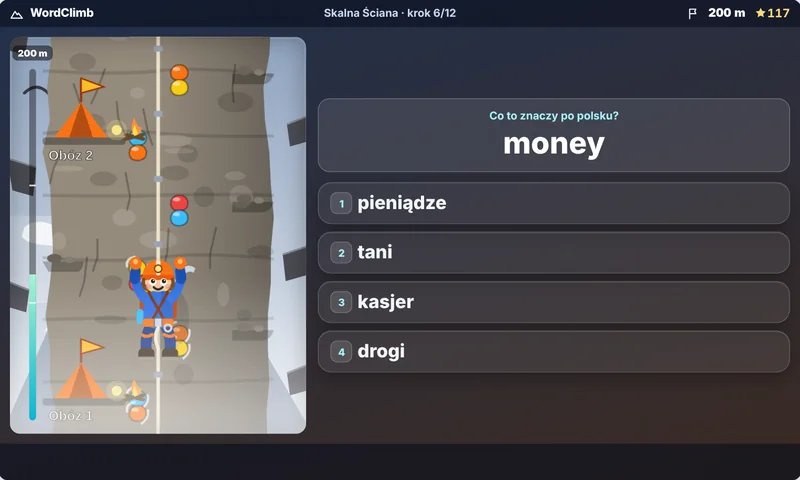
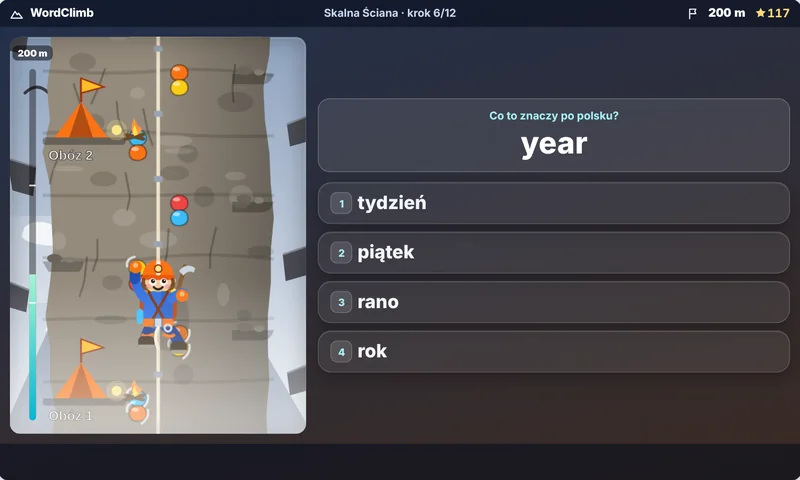
WordClimb: ręce i nogi wspinacza na uchwytach, 18 nowych słówek B1
Claude-Session: https://claude.ai/code/session_01MyUW9fQB8JttoV36Ji4mpt

diff --git a/index.html b/index.html
@@ -866,8 +866,8 @@ const CATS=[
 {n:'Zakupy',e:'🛒',l:'A2',nh:1,w:D('sklep=shop=I buy bread in a ___.,cena=price=The number on a label tells you the ___.,tani=cheap=A low price means it is ___.,drogi=expensive=A very high price means it is ___.,pieniądze=money=You pay with ___ in a shop.,koszyk=basket=You carry your shopping in a ___.,paragon=receipt=The shop gives you a ___ after you pay.,torba=bag=You put your shopping in a ___.,kasjer=cashier=The ___ scans your things at the till.,zniżka=discount=A ___ makes the price lower.,karta=card=You can pay by ___ instead of cash.,reszta=change=The shop gives you back the ___.,rozmiar=size=You ask for a bigger ___ when a shirt is too small.,kolejka=queue=People wait in a ___ at the till.')},
 {n:'Podróże',e:'✈',l:'A2',nh:1,w:D('bilet=ticket=You buy a ___ before you take the train.,lotnisko=airport=Planes take off from the ___.,pociąg=train=A ___ runs on rails between stations.,walizka=suitcase=You pack your clothes in a ___.,mapa=map=A ___ shows you where the roads are.,hotel=hotel=Tourists sleep in a ___ at night.,paszport=passport=You show your ___ at the border.,wakacje=holiday=Children do not go to school during the summer ___.,stacja=station=Trains stop at the ___.,autobus=bus=A ___ is a big vehicle for many people in the city.,samolot=plane=A ___ flies in the sky.,statek=ship=A ___ sails across the sea.,rezerwacja=reservation=I made a table ___ at the restaurant.,bagaż=luggage=All your suitcases are your ___.')},
 {n:'Czas i dni',e:'📅',l:'A2',nh:1,w:D('poniedziałek=Monday=The first day of the school week is ___.,wtorek=Tuesday=The day after Monday is ___.,środa=Wednesday=The day in the middle of the week is ___.,piątek=Friday=The last school day of the week is ___.,niedziela=Sunday=Many people rest on ___.,rano=morning=You wake up in the ___.,wieczór=evening=You eat supper in the ___.,wczoraj=yesterday=The day before today is ___.,jutro=tomorrow=The day after today is ___.,tydzień=week=Seven days make one ___.,miesiąc=month=Thirty days make about one ___.,rok=year=Twelve months make one ___.,godzina=hour=Sixty minutes make one ___.,dzisiaj=today=This day right now is ___.')},
-{n:'Czasowniki nieregularne',e:'📘',l:'B1',nh:1,w:D('poszedł=went=Yesterday I ___ to school by bus.,zobaczył=saw=Last night I ___ a big moon in the sky.,zjadł=ate=She ___ a sandwich at noon yesterday.,kupił=bought=He ___ a new phone with his own money last week.,wziął=took=They ___ a taxi to the airport last night.,napisał=wrote=I ___ an email to my teacher yesterday.,mówił=spoke=He ___ English very well when he was ten.,wiedział=knew=I ___ the answer to the question yesterday.,przyszedł=came=She ___ to the party an hour ago.,dał=gave=He ___ me a present on my birthday.,zrobił=made=Mum ___ a cake in the oven yesterday.,powiedział=said=He ___ hello and smiled yesterday.,wypił=drank=I ___ a glass of milk this morning.,spał=slept=The baby ___ all night yesterday.')},
-{n:'Fałszywi przyjaciele',e:'🎭',l:'B1',w:D('aktualny=current=The ___ price is ten zloty.=actual,ewentualnie=possibly=We can ___ go later.=eventually,sympatyczny=nice=She is a very ___ person.=sympathetic,pensja=salary=He gets a good ___.=pension,recepta=prescription=The doctor wrote a ___.=recipe,fabryka=factory=He works in a ___.=fabric,magazyn=warehouse=The goods are in the ___.=magazine,dres=tracksuit=I wear a ___ for sport.=dress,kolega=friend=He is my school ___.=colleague,list=letter=I got a ___ from my aunt.=list,sensowny=sensible=That is a ___ idea.=sensitive')}];
+{n:'Czasowniki nieregularne',e:'📘',l:'B1',nh:1,w:D('poszedł=went=Yesterday I ___ to school by bus.,zobaczył=saw=Last night I ___ a big moon in the sky.,zjadł=ate=She ___ a sandwich at noon yesterday.,kupił=bought=He ___ a new phone with his own money last week.,wziął=took=They ___ a taxi to the airport last night.,napisał=wrote=I ___ an email to my teacher yesterday.,mówił=spoke=He ___ English very well when he was ten.,wiedział=knew=I ___ the answer to the question yesterday.,przyszedł=came=She ___ to the party an hour ago.,dał=gave=He ___ me a present on my birthday.,zrobił=made=Mum ___ a cake in the oven yesterday.,powiedział=said=He ___ hello and smiled yesterday.,wypił=drank=I ___ a glass of milk this morning.,spał=slept=The baby ___ all night yesterday.,zapomniał=forgot=I ___ to do my homework yesterday.,znalazł=found=She ___ her lost cat in the park yesterday.,stracił=lost=He ___ his umbrella on the bus last week.,usłyszał=heard=We ___ a loud noise last night.,poczuł=felt=I ___ very tired after the long trip.,zaczął=began=The film ___ at eight o\'clock yesterday.,usiadł=sat=The cat ___ on my bed yesterday.,stanął=stood=We ___ in a long queue yesterday.,pływał=swam=We ___ in the lake last summer.,narysował=drew=She ___ a horse with a pencil yesterday.,zaśpiewał=sang=She ___ a beautiful song at the party.,wygrał=won=Our team ___ the match last Sunday.,złamał=broke=He ___ his leg when he fell off a bike.,przebiegł=ran=He ___ ten kilometres in the park yesterday.')},
+{n:'Fałszywi przyjaciele',e:'🎭',l:'B1',w:D('aktualny=current=The ___ price is ten zloty.=actual,ewentualnie=possibly=We can ___ go later.=eventually,sympatyczny=nice=She is a very ___ person.=sympathetic,pensja=salary=He gets a good ___.=pension,recepta=prescription=The doctor wrote a ___.=recipe,fabryka=factory=He works in a ___.=fabric,magazyn=warehouse=The goods are in the ___.=magazine,dres=tracksuit=I wear a ___ for sport.=dress,kolega=friend=He is my school ___.=colleague,list=letter=I got a ___ from my aunt.=list,sensowny=sensible=That is a ___ idea.=sensitive,tabletka=pill=I took a ___ for my headache.=tablet,kostium=suit=She wore a business ___ to work.=costume,gust=taste=She has good ___ in clothes.=gust,bluza=sweatshirt=When it is cold I wear a warm ___.=blouse')}];
 const SEN=Object.fromEntries(`dog=I walk my ___ every day.|cat=The ___ sleeps on the sofa.|bird=A ___ sings in the tree.|fish=The ___ swims in the water.|horse=She rides a ___.|cow=The ___ gives us milk.|mouse=The ___ is afraid of the cat.|pig=The ___ lives on a farm.|rabbit=The ___ eats a carrot.|frog=The green ___ jumps into the pond.|bread=I eat ___ for breakfast.|milk=I drink a glass of ___.|apple=She eats a red ___.|water=Please give me a glass of ___.|cheese=I like ___ on my sandwich.|egg=He has a boiled ___.|butter=Put ___ on the bread.|sugar=I put ___ in my tea.|soup=Mum cooks hot ___.|tea=Would you like a cup of ___?|house=We live in a big ___.|window=Please open the ___.|door=Close the ___ please.|table=The book is on the ___.|chair=Sit on the ___.|bed=I go to ___ at ten.|lamp=Turn on the ___.|kitchen=Mum is cooking in the ___.|roof=The cat sits on the ___.|wall=There is a picture on the ___.|red=The apple is ___.|blue=The sky is ___.|green=The grass is ___.|yellow=The sun is ___.|black=The night is ___.|white=Snow is ___.|big=An elephant is ___.|small=A mouse is ___.|fast=A car is ___.|slow=A turtle is ___.|head=I wear a hat on my ___.|hand=I write with my right ___.|leg=I hurt my ___ in football.|eye=I close one ___.|ear=I hear with my ___.|nose=I smell with my ___.|mouth=Open your ___ please.|heart=My ___ beats fast.|finger=I wear a ring on my ___.|hair=She has long ___.|run=I ___ in the park.|jump=The frog can ___.|eat=I ___ lunch at noon.|drink=I ___ water every day.|sleep=I ___ eight hours.|read=I ___ a book.|write=I ___ a letter.|speak=Can you ___ English?|listen=Please ___ to the teacher.|swim=I ___ in the sea.`.split('|').map(x=>x.split('=')));
 CATS.forEach((c,i)=>{c.l=c.l||'A1';c.w.forEach(w=>{if(!w[2]&&SEN[w[1]])w[2]=SEN[w[1]]})});
 let SKEY='wc2',SV={};try{SV=JSON.parse(localStorage.getItem(SKEY)||'{}')}catch(e){}
@@ -2777,8 +2777,8 @@ function clAwardHtml(){return CL.gain==null?'liczę…':CL.gain>0?'+'+CL.gain+' 
 function clMan(o){
 
   o=o||{};const st=o.st||'idle',lv=o.lvl||'A1',lead=o.arm?'l':'r',b1=lv==='B1',jk=b1?'#d9482f':'#2f6fe0',jk2=b1?'#9f2c1b':'#1d4fb3';
-  const arm=s=>{const x=s*5;return`<g transform="translate(${s*9} -7)"><g class="cm-arm ${s<0?'l':'r'}"><path d="M0 0Q${s*7} -8 ${x} -21" stroke="${jk}" stroke-width="6.6" stroke-linecap="round" fill="none"/><path d="M${s*6} -13Q${s*6.4} -15 ${x+s*.2} -18" stroke="${jk2}" stroke-width="6.8" stroke-linecap="round" fill="none"/><circle cx="${x}" cy="-23.5" r="4.2" fill="#f97316"/><circle cx="${x}" cy="-24.6" r="1.7" fill="#fdba74"/></g></g>`};
-  const leg=s=>`<g transform="translate(${s*5} 11)"><g class="cm-leg ${s<0?'l':'r'}"><path d="M0 0Q${s*4} 8 ${s*3} 16" stroke="#1e3a8a" stroke-width="7.4" stroke-linecap="round" fill="none"/><path d="M${s*-1} 6Q${s*3.4} 8 ${s*5.4} 6.4" stroke="#f97316" stroke-width="2.2" fill="none" stroke-linecap="round"/><rect x="${s*3-5.5}" y="15" width="11" height="8" rx="3.2" fill="#3b2a1a"/><rect x="${s*3-5.5}" y="20.6" width="11" height="2.4" rx="1.2" fill="#9a8f84"/></g></g>`;
+  const hold=s=>!o.wall||(s<0)===!!o.arm,arm=s=>{const x=s*5,up=hold(s),hy=up?-21:-2,ex=up?x:s*7;return`<g transform="translate(${s*9} -7)"><g class="cm-arm ${s<0?'l':'r'}"><path d="M0 0Q${up?s*7:s*10} ${up?-8:-6} ${ex} ${up?-21:-2}" stroke="${jk}" stroke-width="6.6" stroke-linecap="round" fill="none"/>${up?`<path d="M${s*6} -13Q${s*6.4} -15 ${x+s*.2} -18" stroke="${jk2}" stroke-width="6.8" stroke-linecap="round" fill="none"/>`:''}<circle cx="${ex}" cy="${up&&!o.wall?-23.5:hy}" r="4.2" fill="#f97316"/><circle cx="${ex}" cy="${(up&&!o.wall?-23.5:hy)-1.1}" r="1.7" fill="#fdba74"/></g></g>`};
+  const leg=s=>{const on=o.wall&&(s<0)!==!!o.arm,fx=on?s*9:o.wall?s*3:s*3,fy=on?11.5:o.wall?8:16;return`<g transform="translate(${s*5} 11)"><g class="cm-leg ${s<0?'l':'r'}"><path d="M0 0Q${s*4+(on?s*2:0)} ${on?5:8} ${fx} ${fy}" stroke="#1e3a8a" stroke-width="7.4" stroke-linecap="round" fill="none"/><path d="M${s*-1} 6Q${s*3.4} 8 ${s*5.4} 6.4" stroke="#f97316" stroke-width="2.2" fill="none" stroke-linecap="round"/><rect x="${fx-5.5}" y="${fy-1}" width="11" height="8" rx="3.2" fill="#3b2a1a"/><rect x="${fx-5.5}" y="${fy+4.6}" width="11" height="2.4" rx="1.2" fill="#9a8f84"/></g></g>`};
   return`<g class="cl-man st-${st} lead-${lead}"><g class="cm-all">`
    +(lv!=='A1'?'<path d="M11 -4L18 -28" stroke="#8a5f33" stroke-width="3" stroke-linecap="round"/><path d="M14 -25Q19 -31 25 -27L24 -24Q20 -26 17 -22z" fill="#cbd5e1"/>':'')
    +'<rect x="-12.5" y="-11" width="25" height="21" rx="7" fill="#c2410c"/><rect x="-14.6" y="0" width="4.6" height="10" rx="2.2" fill="#38bdf8"/><rect x="-13" y="-13.6" width="26" height="5.4" rx="2.7" fill="#fde047"/><path d="M-8 -13.6v5.4M0 -13.6v5.4M8 -13.6v5.4" stroke="#ca8a04" stroke-width="1"/>'
@@ -2851,7 +2851,7 @@ function clScene(l,from){
    +(l==='B1'?'<path class="cl-aur" d="M-10 70Q50 30 110 60T210 40V80Q150 100 100 80T-10 100z" fill="#7cf0c8" opacity=".2"/>':'')+(l==='A2'?'<g class="cl-birds big" fill="none" stroke="#3a3a42" stroke-width="2" stroke-linecap="round"><path d="M30 54q8-8 16 0q8-8 16 0"/></g>':'')
    +'<g class="cl-fl cl-world" style="transform:'+clTf('w',from)+'" data-f="w">'+clWorld(l,CL.i)+'</g>'
    +'<ellipse cx="106" cy="206" rx="15" ry="22" fill="#000" opacity=".14"/>'
-   +'<g transform="translate(100 200)"><g class="cl-man-w'+(CL.slip?' slip':'')+'">'+clMan({arm:CL.i%2,mood:CL.mood,st:st,lvl:l})+'</g></g>'
+   +'<g transform="translate(100 200)"><g class="cl-man-w'+(CL.slip?' slip':'')+'">'+clMan({wall:1,arm:CL.i%2,mood:CL.mood,st:st,lvl:l})+'</g></g>'
    +(CL.slip?'<g class="cl-peb">'+[[90,170,0],[104,160,.1],[112,176,.2],[96,186,.15],[118,168,.3]].map(p=>'<circle cx="'+p[0]+'" cy="'+p[1]+'" r="2.4" fill="#8a7a66" style="animation-delay:'+p[2]+'s"/>').join('')+'</g>':'')
    +'<g class="cl-fl" style="transform:'+clTf('g',from)+'" data-f="g">'+clFg(l)+'</g></svg><i class="cl-vg"></i></div>'
 }
